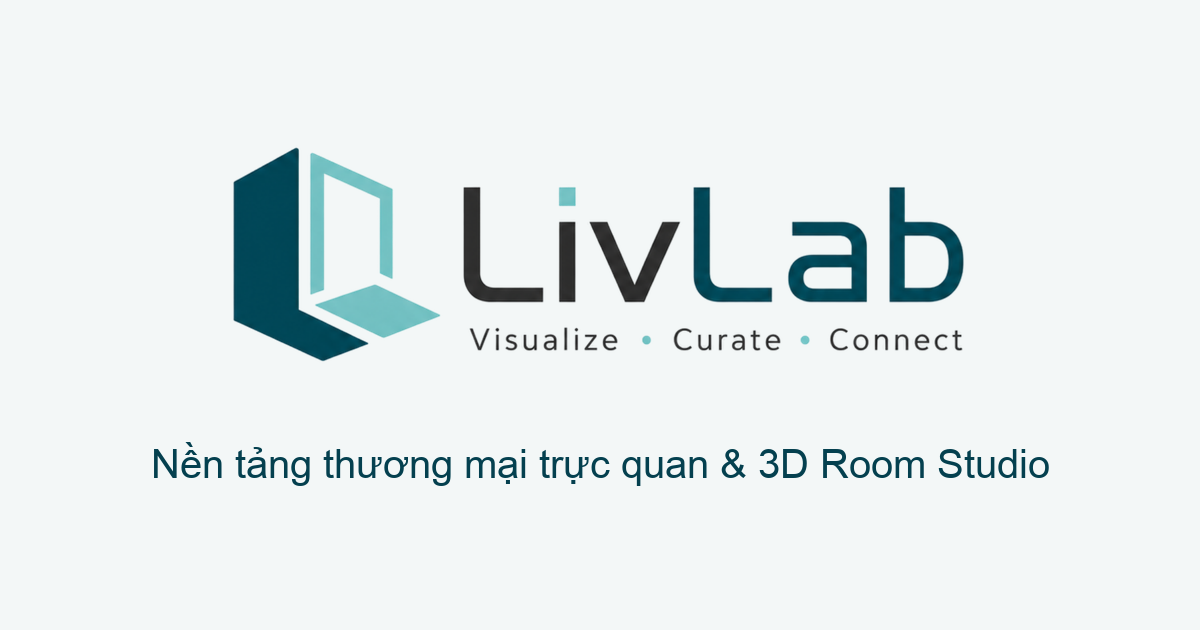
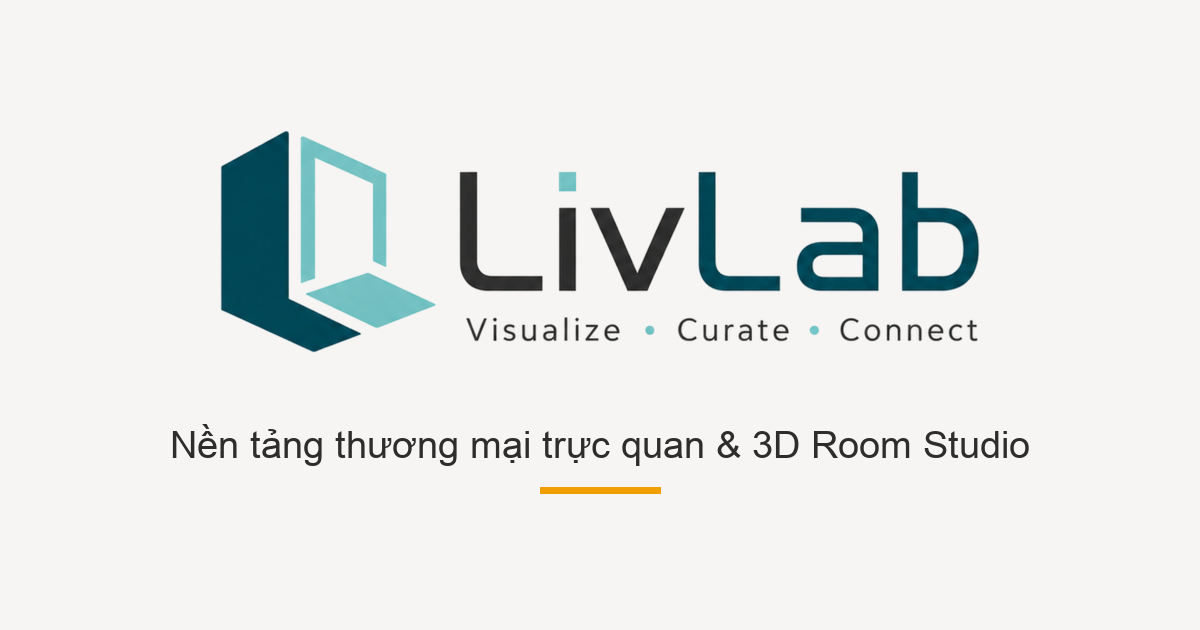
feat(livlab): wear the retail storefront's orange and scenes on livlab.space
LivLab's own site now looks exactly like the Tùng Đăng storefront and
differs only in identity: LivLab's logo, name and copy, and none of the
showroom's name, address or hotline.

- One WARM_RETAIL_THEME shared by both storefronts (values unchanged for
  Tùng Đăng); LivLab's brand accent follows it.
- The same scenes: the spa master bath in the hero, Golden Retreat as the
  featured room, and the urban, monochrome and warm rooms in the row —
  as LivLab concepts pinned to LivLab's own library. Golden Retreat is
  served from /concepts/ so no path names the showroom. Fixtures the
  library has nothing of the same kind for stay unannotated.
- A Room Studio picture captured from LivLab's own Room Studio
  (?demo=1, new 3 x 2 m demo room) in the new palette, framed like the
  retail demo's; the share card moves to charcoal and orange.
- Database catalogue: no longer strikes through priceMax as a list price.
  It is the top of a reference range, and showed as an invented "-20%".
  A struck price now appears only for a showroom's own promotion.

Tests: concept library 66, Room Studio/theme 54, tenant SEO 66, INAX 144,
technical 46 — all pass. Giang Sơn and Tùng Đăng render as before.

Changed region(s): [[0.185, 0.2111, 0.8325, 0.573], [0.1233, 0.6635, 0.8942, 0.7841], [0.37, 0.5127, 0.8325, 0.573]]

diff --git a/lib/storefront/tenantConfig.ts b/lib/storefront/tenantConfig.ts
@@ -13,7 +13,7 @@
  * docs/storefront-tenant-fields.md.
  */
 
-import { EDITORIAL_EXPERIENCE, type TenantExperience } from './tenantExperience';
+import { EDITORIAL_EXPERIENCE, type TenantExperience, type TenantTheme } from './tenantExperience';
 
 export interface TenantBrand {
   /** Shown in the header, the footer and page titles. */
@@ -280,42 +280,53 @@ const LIVLAB_FEATURES: TenantFeatureFlags = {
 };
 
 /**
- * The default storefront, used by livlab.vercel.app and whenever tenant
- * resolution finds nothing. It keeps LivLab's existing navy identity.
+ * The warm retail palette: charcoal ink, an orange primary action and the same
+ * orange darkened for text. Worn by LivLab's own storefront and by the Tùng
+ * Đăng demo, so the two look alike while carrying different names and logos.
+ *
+ * Colours, checked for contrast rather than eyeballed:
+ *   #EF9F00 orange fills the primary action; charcoal on it is 6.3:1, while
+ *     white on it would be 2.2:1, so the action's text is charcoal.
+ *   #B45309 is the same orange as TEXT on white (5.0:1): prices and links.
+ *   #D61A2C is a promo red darkened to 5.2:1 for small text, and appears only
+ *     beside a genuinely higher list price.
  */
+const WARM_RETAIL_THEME: TenantTheme = {
+  ink: '#2E2D2B',
+  inkContrast: '#FFFFFF',
+  accentInk: '#B45309',
+  panel: '#2E2D2B',
+  panelContrast: '#FFFFFF',
+  price: '#B45309',
+  discount: '#D61A2C',
+  surfaceMuted: '#F4F3F1',
+  radius: 6,
+  headingTracking: '.04em',
+  font: 'beVietnamPro',
+  uiPrimary: '#EF9F00',
+  uiPrimaryHover: '#FCA359',
+  uiPrimaryContrast: '#2E2D2B',
+  uiSelected: '#EF9F00',
+  uiSelectedContrast: '#2E2D2B',
+  uiSoft: '#FDF1DC',
+  uiSoftContrast: '#8A4500',
+  uiLink: '#B45309',
+  uiSurface: '#F6F5F3',
+  uiInk: '#2E2D2B',
+};
+
 /**
- * LivLab's own storefront, on the retail treatment the Tùng Đăng demo proved
- * out: the same header, commerce hero, icon rail, price-led cards and section
- * order — with LivLab's colours (taken from its logo), copy, product library
- * and concepts. Nothing here reads a showroom's catalogue or contact details.
+ * LivLab's own storefront — the default, used by livlab.space and whenever
+ * tenant resolution finds nothing. It is the Tùng Đăng demo's storefront
+ * exactly: the same warm palette, header, commerce hero, icon rail, price-led
+ * cards, section order and scene photographs. What differs is identity only —
+ * LivLab's logo, copy, product library and concepts. Nothing here reads a
+ * showroom's catalogue, name, address or contact details.
  */
 const LIVLAB_CATEGORIES = ['Bồn cầu', 'Lavabo', 'Vòi lavabo', 'Sen tắm', 'Gương & phụ kiện'];
 
 const LIVLAB_RETAIL_EXPERIENCE: TenantExperience = {
-  // Logo colours: deep teal #04404F, light teal #70C0C0, charcoal #282828.
-  theme: {
-    ink: '#2A2A2A',
-    inkContrast: '#FFFFFF',
-    accentInk: '#0A5566',
-    panel: '#04404F',
-    panelContrast: '#FFFFFF',
-    price: '#0A5566',
-    discount: '#D61A2C',
-    surfaceMuted: '#F1F6F6',
-    radius: 6,
-    headingTracking: '.04em',
-    font: 'beVietnamPro',
-    uiPrimary: '#04404F',
-    uiPrimaryHover: '#0A5566',
-    uiPrimaryContrast: '#FFFFFF',
-    uiSelected: '#04404F',
-    uiSelectedContrast: '#FFFFFF',
-    uiSoft: '#E3F4F3',
-    uiSoftContrast: '#04404F',
-    uiLink: '#0A5566',
-    uiSurface: '#F4F7F7',
-    uiInk: '#2A2A2A',
-  },
+  theme: WARM_RETAIL_THEME,
   variants: {
     header: 'retail',
     hero: 'commerce',
@@ -336,12 +347,17 @@ const LIVLAB_RETAIL_EXPERIENCE: TenantExperience = {
       'llv-sho-inax-bfv655t8c',
       'llv-fau-toto-tx109ld',
     ],
-    heroConceptSlug: 'livlab-urban-light-spa',
-    featuredConceptSlug: 'livlab-warm-smart-retreat',
+    // The same scenes the retail storefront leads with, pinned to LivLab's
+    // own products (lib/storefront/conceptLibrary.ts).
+    heroConceptSlug: 'livlab-master-spa-retreat',
+    featuredConceptSlug: 'livlab-golden-retreat',
     conceptCount: 3,
+    // Captured from LivLab's own Room Studio with `?demo=1` (the room below),
+    // 1440 × 1097 and cropped beneath the site header — the same framing as
+    // the retail demo's picture.
     roomStudioImage: {
-      src: '/images/room-studio-ui.png',
-      alt: 'Room Studio của LivLab: nhập kích thước phòng, chọn vật liệu và đặt thiết bị từ thư viện sản phẩm',
+      src: '/images/room-studio-livlab.webp',
+      alt: 'Room Studio của LivLab: phòng 3,0 × 2,0 m với lavabo và bồn cầu từ thư viện sản phẩm LivLab',
     },
   },
   copy: {
@@ -408,6 +424,19 @@ const LIVLAB_RETAIL_EXPERIENCE: TenantExperience = {
   },
   // LivLab's Room Studio offers its whole library, 3D reconstructions included.
   roomStudioCatalog: 'livlab',
+  // `/room-studio?demo=1`: the furnished 3 × 2 m room the home page's Room
+  // Studio picture was captured from — the retail demo's arrangement, with
+  // LivLab's own basin and toilet. A product that cannot be placed is skipped.
+  roomStudioDemo: {
+    dimensions: { length: 3, width: 2, height: 2.7 },
+    floor: { material: 'stone-look', color: 'beige', finish: 'matte' },
+    walls: { material: 'porcelain', color: 'white', finish: 'matte' },
+    products: [
+      { id: 'llv-lav-toto-lt1705-xw', at: [-0.75, -0.75] },
+      { id: 'llv-toi-toto-cs838dt8', at: [0.65, -0.55] },
+    ],
+    selectProductId: 'llv-toi-toto-cs838dt8',
+  },
 };
 
 export const LIVLAB_TENANT: TenantStorefrontConfig = {
@@ -421,9 +450,9 @@ export const LIVLAB_TENANT: TenantStorefrontConfig = {
     // The room mark from the logo, on white — replaces the Next/Vercel
     // triangle that Google was showing beside LivLab's results.
     icon: '/images/livlab-icon.png',
-    accent: '#04404F',
-    accentHover: '#0A5566',
-    accentContrast: '#FFFFFF',
+    accent: '#EF9F00',
+    accentHover: '#FCA359',
+    accentContrast: '#2E2D2B',
   },
   navigation: baseNavigation(LIVLAB_FEATURES, { isDefaultTenant: true, productCategories: LIVLAB_CATEGORIES }),
   contact: {},
@@ -513,39 +542,10 @@ const TUNGDANG_CATEGORIES = ['Bồn cầu', 'Lavabo', 'Vòi lavabo', 'Sen tắm'
  * variants (`retail`, `commerce`, `iconRail`, `priceLed`) are treatments any
  * retailer can take; an editorial showroom takes the other values of the same
  * fields and gets a different header, hero, category navigation and card from
- * the same components.
- *
- * Colours, checked for contrast rather than eyeballed:
- *   #EF9F00 orange fills the primary action; charcoal on it is 6.3:1, while
- *     white on it would be 2.2:1, so the action's text is charcoal.
- *   #B45309 is the same orange as TEXT on white (5.0:1): prices and links.
- *   #D61A2C is the source's promo red darkened to 5.2:1 for small text, and
- *     appears only beside a genuinely higher list price.
+ * the same components. Its palette is WARM_RETAIL_THEME, shared with LivLab.
  */
 const TUNGDANG_EXPERIENCE: TenantExperience = {
-  theme: {
-    ink: '#2E2D2B',
-    inkContrast: '#FFFFFF',
-    accentInk: '#B45309',
-    panel: '#2E2D2B',
-    panelContrast: '#FFFFFF',
-    price: '#B45309',
-    discount: '#D61A2C',
-    surfaceMuted: '#F4F3F1',
-    radius: 6,
-    headingTracking: '.04em',
-    font: 'beVietnamPro',
-    uiPrimary: '#EF9F00',
-    uiPrimaryHover: '#FCA359',
-    uiPrimaryContrast: '#2E2D2B',
-    uiSelected: '#EF9F00',
-    uiSelectedContrast: '#2E2D2B',
-    uiSoft: '#FDF1DC',
-    uiSoftContrast: '#8A4500',
-    uiLink: '#B45309',
-    uiSurface: '#F6F5F3',
-    uiInk: '#2E2D2B',
-  },
+  theme: WARM_RETAIL_THEME,
   variants: {
     header: 'retail',
     hero: 'commerce',

diff --git a/lib/storefront/conceptLibrary.ts b/lib/storefront/conceptLibrary.ts
@@ -1381,6 +1381,58 @@ const llSerenePremium = tenantConcept(c04, {
   },
 });
 
+/*
+ * The three scenes the retail storefront leads with — the spa master bath in
+ * the hero, Golden Retreat as the featured room, the monochrome bath in the
+ * row — on LivLab's own library. All three images are LivLab-generated.
+ * Objects the library has nothing of the same kind for (a free-standing tub,
+ * a wall-hung WC, a ceiling shower, wall-mounted taps) stay unannotated.
+ */
+const LL_VESSEL_RECT = llPick('llv-lav-toto-lt1705-xw', 'TOTO', 'LT1705#XW', 'Chậu đặt bàn chữ nhật men trắng, 550 × 380 mm — cùng kiểu lắp đặt và tỷ lệ với chậu trong ảnh.');
+const LL_CLOSE_COUPLED_WC = llPick('llv-toi-toto-cs838dt8', 'TOTO', 'CS838DT8', 'Bồn cầu hai khối, két hộp vuông sát tường, nắp êm — cùng kiểu với thiết bị trong ảnh.');
+
+const llMasterSpa = tenantConcept(c05, {
+  tenantId: LIVLAB_TENANT_ID,
+  idPrefix: 'll',
+  slug: 'livlab-master-spa-retreat',
+  titleVi: 'Master bathroom phong cách spa tại nhà',
+  presentation: { leadWithName: true, roomType: 'Master bathroom', styleLabel: 'Spa tại gia', areaLabel: '10–14 m²', budgetLabel: 'Cao cấp' },
+  picks: {
+    2: LL_VESSEL_RECT,
+    3: { ...LL_VESSEL_RECT, note: `${LL_VESSEL_RECT.note} Chậu thứ hai của mặt bàn đôi.` },
+    4: LL_CLOSE_COUPLED_WC,
+  },
+});
+
+const llGoldenRetreat = tenantConcept(
+  // The same LivLab-generated scene, served from the shared concepts folder.
+  { ...td01, canonicalImage: '/concepts/golden-retreat-master-bath.webp', imageSourceId: 'golden-retreat-master-bath.webp (LivLab, 2026-10-18)' },
+  {
+    tenantId: LIVLAB_TENANT_ID,
+    idPrefix: 'll',
+    slug: 'livlab-golden-retreat',
+    titleVi: 'Phòng tắm master thư giãn',
+    presentation: { leadWithName: true, roomType: 'Master bathroom', styleLabel: 'Hiện đại cao cấp', areaLabel: '10–14 m²', budgetLabel: 'Cao cấp' },
+    picks: {
+      1: { ...LL_VESSEL_RECT, note: 'Chậu đặt bàn chữ nhật men trắng dưới gương tròn — cùng kiểu lắp đặt và tỷ lệ.' },
+      2: LL_CLOSE_COUPLED_WC,
+      4: llPick('llv-sho-inax-bfv655t8c', 'INAX', 'BFV-655T-8C', 'Sen cây nhiệt độ lộ thiên, bát sen tròn và tay sen — cùng kiểu thiết bị trong khu tắm kính.'),
+    },
+  }
+);
+
+const llMonochrome = tenantConcept(c07, {
+  tenantId: LIVLAB_TENANT_ID,
+  idPrefix: 'll',
+  slug: 'livlab-monochrome-architectural-bath',
+  titleVi: 'Phòng tắm đen – trắng kiến trúc',
+  presentation: { leadWithName: true, roomType: 'Phòng tắm master', styleLabel: 'Đen – trắng hiện đại', areaLabel: '7–10 m²', budgetLabel: 'Trung – cao cấp' },
+  picks: {
+    2: llPick('llv-lav-toto-lw573jwf', 'TOTO', 'LW573JW/F#W', 'Chậu đặt bàn tròn men trắng, 420 × 420 mm — cùng kiểu lắp đặt và dáng tròn thấp với chậu trong ảnh.'),
+    3: llPick('llv-lav-toto-lw573jwf', 'TOTO', 'LW573JW/F#W', 'Chậu đặt bàn tròn men trắng — chậu thứ hai của mặt bàn đôi, cùng model.'),
+  },
+});
+
 /**
  * Reading order, set by how the rooms look rather than by when they were made.
  *
@@ -1398,6 +1450,8 @@ export const CONCEPT_LIBRARY: StorefrontConcept[] = [
   // A tenant's own concept leads its storefront; every other tenant skips it.
   td01,
   gsMasterSpa, gsScandinavian, gsPremiumSuite,
-  llUrbanLight, llWarmSmart, llScandinavian, llSerenePremium,
+  // LivLab's own, in the order its home page reads them: hero, featured room,
+  // then the row — the same three scenes the retail storefront leads with.
+  llMasterSpa, llGoldenRetreat, llUrbanLight, llMonochrome, llWarmSmart, llScandinavian, llSerenePremium,
   c01, c07, c03, c10, c08, c04, c06, c09, c02, c05,
 ];

diff --git a/lib/storefront/catalog.ts b/lib/storefront/catalog.ts
@@ -250,7 +250,11 @@ async function fromDatabase(tenant: TenantStorefrontConfig): Promise<Catalog> {
       const verdict = verdicts.get(p.id);
       const status = (verdict?.status ?? 'ACCEPTABLE') as ImageStatus;
       const showroomPrice = offer?.promotionPrice ?? offer?.showroomPrice ?? p.priceMin ?? null;
-      const reference = offer?.promotionPrice ? (offer.showroomPrice ?? p.priceMax) : p.priceMax;
+      // A struck price is a claim of a discount, so it is shown only for a
+      // showroom's own promotion against its own price. `priceMax` is the top
+      // of a reference range gathered from sources, not a list price: struck
+      // through it would turn a range into an invented "−20%".
+      const reference = offer?.promotionPrice ? (offer.showroomPrice ?? null) : null;
 
       // The Product model has no sku column; the slug carries the code.
       const sku = p.slug ?? null;
